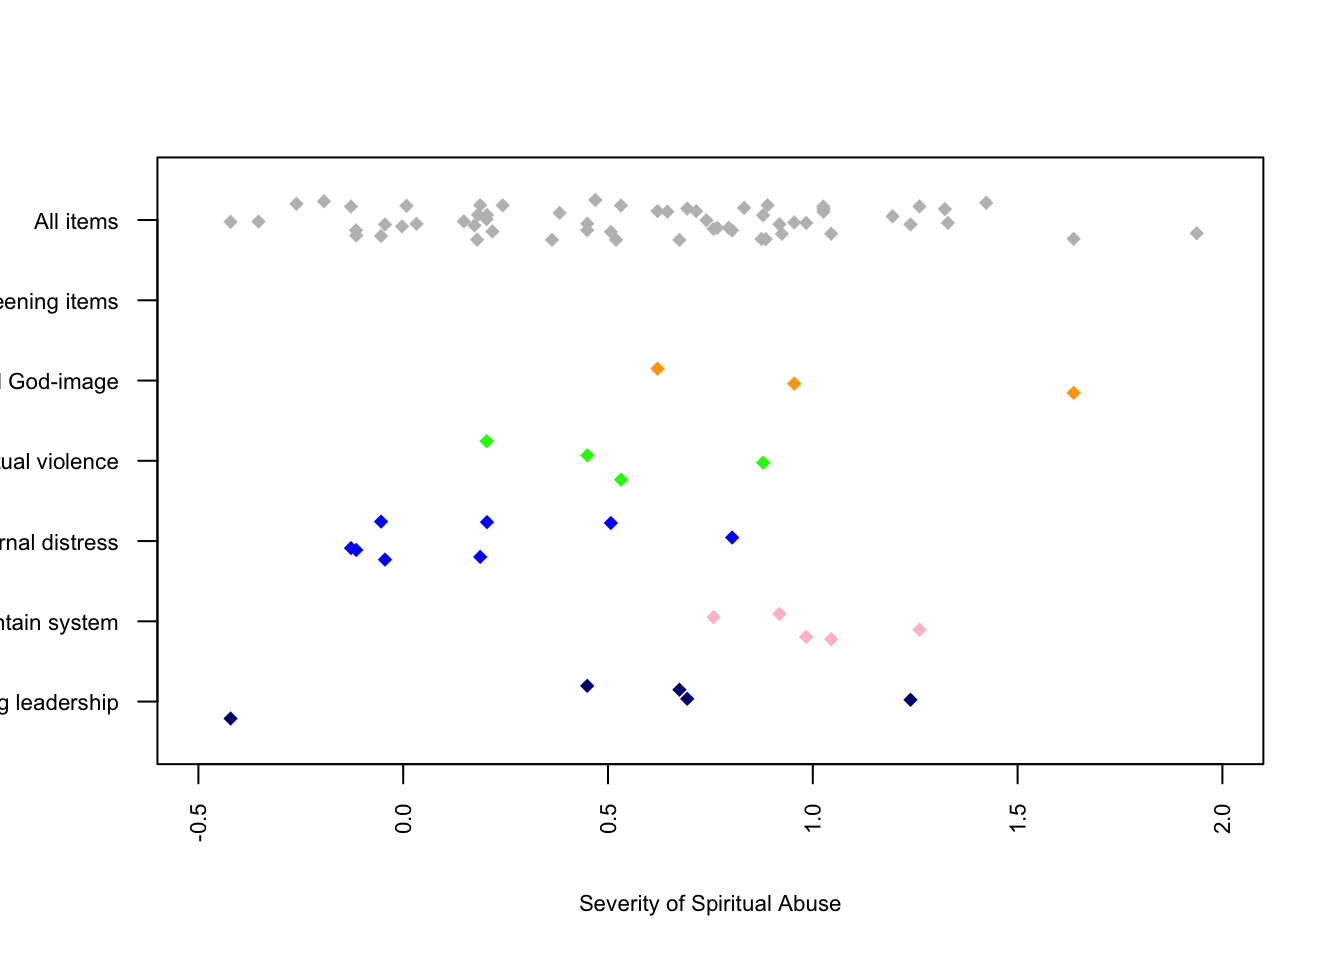
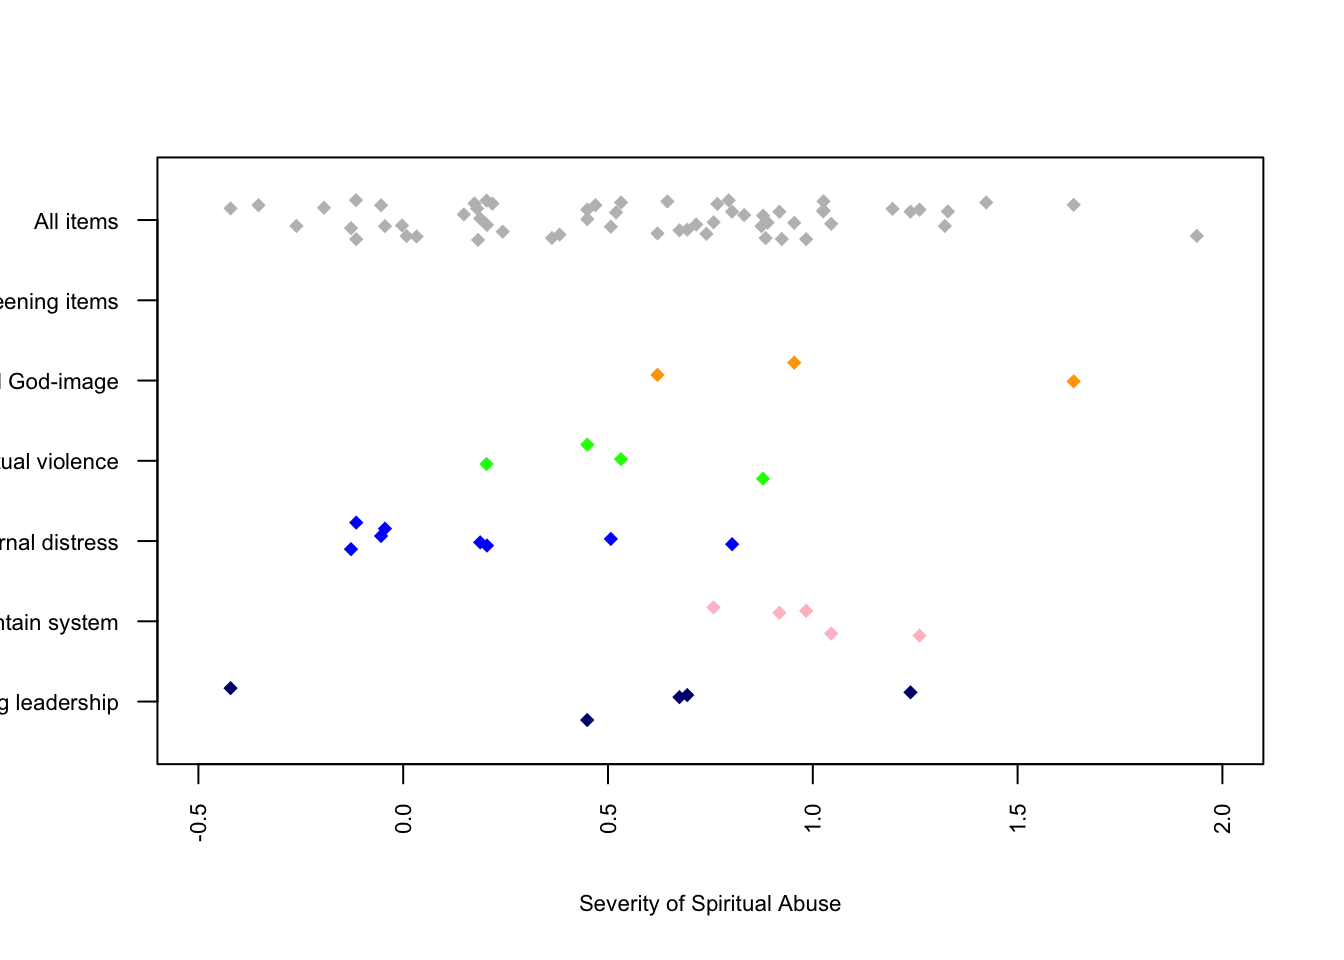
Built site for gh-pages

diff --git a/results.html b/results.html
@@ -1675,15 +1675,15 @@ Iteration in WLE/MLE estimation  7   | Maximal change  0
    <td style="text-align:center;"> controlling leadership </td>
    <td style="text-align:center;"> -0.42 </td>
    <td style="text-align:center;"> 0.02 </td>
-   <td style="text-align:center;"> 1.21 </td>
-   <td style="text-align:center;"> 1.26 </td>
+   <td style="text-align:center;"> 1.20 </td>
+   <td style="text-align:center;"> 1.25 </td>
   </tr>
   <tr>
    <td style="text-align:left;width: 11cm; "> EQ66 - Others treated as less than due to their sexual orientation </td>
    <td style="text-align:center;">  </td>
    <td style="text-align:center;"> -0.35 </td>
    <td style="text-align:center;"> 0.02 </td>
-   <td style="text-align:center;"> 1.09 </td>
+   <td style="text-align:center;"> 1.10 </td>
    <td style="text-align:center;"> 1.05 </td>
   </tr>
   <tr>
@@ -1691,7 +1691,7 @@ Iteration in WLE/MLE estimation  7   | Maximal change  0
    <td style="text-align:center;">  </td>
    <td style="text-align:center;"> -0.26 </td>
    <td style="text-align:center;"> 0.02 </td>
-   <td style="text-align:center;"> 0.77 </td>
+   <td style="text-align:center;"> 0.76 </td>
    <td style="text-align:center;"> 0.76 </td>
   </tr>
   <tr>
@@ -1699,7 +1699,7 @@ Iteration in WLE/MLE estimation  7   | Maximal change  0
    <td style="text-align:center;">  </td>
    <td style="text-align:center;"> -0.19 </td>
    <td style="text-align:center;"> 0.02 </td>
-   <td style="text-align:center;"> 1.04 </td>
+   <td style="text-align:center;"> 1.05 </td>
    <td style="text-align:center;"> 0.97 </td>
   </tr>
   <tr>
@@ -1723,7 +1723,7 @@ Iteration in WLE/MLE estimation  7   | Maximal change  0
    <td style="text-align:center;"> internal distress </td>
    <td style="text-align:center;"> -0.11 </td>
    <td style="text-align:center;"> 0.02 </td>
-   <td style="text-align:center;"> 0.94 </td>
+   <td style="text-align:center;"> 0.95 </td>
    <td style="text-align:center;"> 0.86 </td>
   </tr>
   <tr>
@@ -1731,7 +1731,7 @@ Iteration in WLE/MLE estimation  7   | Maximal change  0
    <td style="text-align:center;"> internal distress </td>
    <td style="text-align:center;"> -0.05 </td>
    <td style="text-align:center;"> 0.02 </td>
-   <td style="text-align:center;"> 1.35 </td>
+   <td style="text-align:center;"> 1.34 </td>
    <td style="text-align:center;"> 1.12 </td>
   </tr>
   <tr>
@@ -1748,7 +1748,7 @@ Iteration in WLE/MLE estimation  7   | Maximal change  0
    <td style="text-align:center;"> 0.00 </td>
    <td style="text-align:center;"> 0.02 </td>
    <td style="text-align:center;"> 0.75 </td>
-   <td style="text-align:center;"> 0.77 </td>
+   <td style="text-align:center;"> 0.78 </td>
   </tr>
   <tr>
    <td style="text-align:left;width: 11cm; "> EQ37 - Made to feel less spiritually mature than pastor/leadership </td>
@@ -1779,7 +1779,7 @@ Iteration in WLE/MLE estimation  7   | Maximal change  0
    <td style="text-align:center;">  </td>
    <td style="text-align:center;"> 0.17 </td>
    <td style="text-align:center;"> 0.02 </td>
-   <td style="text-align:center;"> 0.91 </td>
+   <td style="text-align:center;"> 0.90 </td>
    <td style="text-align:center;"> 0.88 </td>
   </tr>
   <tr>
@@ -1787,7 +1787,7 @@ Iteration in WLE/MLE estimation  7   | Maximal change  0
    <td style="text-align:center;">  </td>
    <td style="text-align:center;"> 0.18 </td>
    <td style="text-align:center;"> 0.02 </td>
-   <td style="text-align:center;"> 1.12 </td>
+   <td style="text-align:center;"> 1.11 </td>
    <td style="text-align:center;"> 1.14 </td>
   </tr>
   <tr>
@@ -1795,7 +1795,7 @@ Iteration in WLE/MLE estimation  7   | Maximal change  0
    <td style="text-align:center;">  </td>
    <td style="text-align:center;"> 0.18 </td>
    <td style="text-align:center;"> 0.02 </td>
-   <td style="text-align:center;"> 0.83 </td>
+   <td style="text-align:center;"> 0.82 </td>
    <td style="text-align:center;"> 0.82 </td>
   </tr>
   <tr>
@@ -1812,7 +1812,7 @@ Iteration in WLE/MLE estimation  7   | Maximal change  0
    <td style="text-align:center;"> 0.20 </td>
    <td style="text-align:center;"> 0.02 </td>
    <td style="text-align:center;"> 1.09 </td>
-   <td style="text-align:center;"> 1.10 </td>
+   <td style="text-align:center;"> 1.11 </td>
   </tr>
   <tr>
    <td style="text-align:left;width: 11cm; "> *IQ78 - A lack of self-worth </td>
@@ -1820,7 +1820,7 @@ Iteration in WLE/MLE estimation  7   | Maximal change  0
    <td style="text-align:center;"> 0.20 </td>
    <td style="text-align:center;"> 0.02 </td>
    <td style="text-align:center;"> 1.08 </td>
-   <td style="text-align:center;"> 1.03 </td>
+   <td style="text-align:center;"> 1.02 </td>
   </tr>
   <tr>
    <td style="text-align:left;width: 11cm; "> EQ18 - Church/pastor discourage critical thinking </td>
@@ -1835,7 +1835,7 @@ Iteration in WLE/MLE estimation  7   | Maximal change  0
    <td style="text-align:center;">  </td>
    <td style="text-align:center;"> 0.24 </td>
    <td style="text-align:center;"> 0.02 </td>
-   <td style="text-align:center;"> 0.68 </td>
+   <td style="text-align:center;"> 0.67 </td>
    <td style="text-align:center;"> 0.71 </td>
   </tr>
   <tr>
@@ -1843,7 +1843,7 @@ Iteration in WLE/MLE estimation  7   | Maximal change  0
    <td style="text-align:center;">  </td>
    <td style="text-align:center;"> 0.36 </td>
    <td style="text-align:center;"> 0.02 </td>
-   <td style="text-align:center;"> 0.75 </td>
+   <td style="text-align:center;"> 0.76 </td>
    <td style="text-align:center;"> 0.76 </td>
   </tr>
   <tr>
@@ -1851,7 +1851,7 @@ Iteration in WLE/MLE estimation  7   | Maximal change  0
    <td style="text-align:center;">  </td>
    <td style="text-align:center;"> 0.38 </td>
    <td style="text-align:center;"> 0.02 </td>
-   <td style="text-align:center;"> 0.75 </td>
+   <td style="text-align:center;"> 0.74 </td>
    <td style="text-align:center;"> 0.73 </td>
   </tr>
   <tr>
@@ -1859,15 +1859,15 @@ Iteration in WLE/MLE estimation  7   | Maximal change  0
    <td style="text-align:center;"> controlling leadership </td>
    <td style="text-align:center;"> 0.45 </td>
    <td style="text-align:center;"> 0.02 </td>
-   <td style="text-align:center;"> 1.39 </td>
-   <td style="text-align:center;"> 1.27 </td>
+   <td style="text-align:center;"> 1.37 </td>
+   <td style="text-align:center;"> 1.26 </td>
   </tr>
   <tr>
    <td style="text-align:left;width: 11cm; "> *EQ58 - Terror/horror used to motivate religious decisions </td>
    <td style="text-align:center;"> spiritual violence </td>
    <td style="text-align:center;"> 0.45 </td>
    <td style="text-align:center;"> 0.02 </td>
-   <td style="text-align:center;"> 0.92 </td>
+   <td style="text-align:center;"> 0.91 </td>
    <td style="text-align:center;"> 0.94 </td>
   </tr>
   <tr>
@@ -1883,7 +1883,7 @@ Iteration in WLE/MLE estimation  7   | Maximal change  0
    <td style="text-align:center;"> internal distress </td>
    <td style="text-align:center;"> 0.51 </td>
    <td style="text-align:center;"> 0.02 </td>
-   <td style="text-align:center;"> 1.19 </td>
+   <td style="text-align:center;"> 1.18 </td>
    <td style="text-align:center;"> 1.16 </td>
   </tr>
   <tr>
@@ -1907,7 +1907,7 @@ Iteration in WLE/MLE estimation  7   | Maximal change  0
    <td style="text-align:center;"> harmful God-image </td>
    <td style="text-align:center;"> 0.62 </td>
    <td style="text-align:center;"> 0.02 </td>
-   <td style="text-align:center;"> 1.36 </td>
+   <td style="text-align:center;"> 1.33 </td>
    <td style="text-align:center;"> 1.21 </td>
   </tr>
   <tr>
@@ -1923,7 +1923,7 @@ Iteration in WLE/MLE estimation  7   | Maximal change  0
    <td style="text-align:center;"> controlling leadership </td>
    <td style="text-align:center;"> 0.67 </td>
    <td style="text-align:center;"> 0.02 </td>
-   <td style="text-align:center;"> 1.40 </td>
+   <td style="text-align:center;"> 1.41 </td>
    <td style="text-align:center;"> 1.38 </td>
   </tr>
   <tr>
@@ -1931,7 +1931,7 @@ Iteration in WLE/MLE estimation  7   | Maximal change  0
    <td style="text-align:center;"> controlling leadership </td>
    <td style="text-align:center;"> 0.69 </td>
    <td style="text-align:center;"> 0.02 </td>
-   <td style="text-align:center;"> 0.86 </td>
+   <td style="text-align:center;"> 0.85 </td>
    <td style="text-align:center;"> 0.93 </td>
   </tr>
   <tr>
@@ -1939,7 +1939,7 @@ Iteration in WLE/MLE estimation  7   | Maximal change  0
    <td style="text-align:center;">  </td>
    <td style="text-align:center;"> 0.72 </td>
    <td style="text-align:center;"> 0.02 </td>
-   <td style="text-align:center;"> 0.75 </td>
+   <td style="text-align:center;"> 0.76 </td>
    <td style="text-align:center;"> 0.78 </td>
   </tr>
   <tr>
@@ -1964,14 +1964,14 @@ Iteration in WLE/MLE estimation  7   | Maximal change  0
    <td style="text-align:center;"> 0.77 </td>
    <td style="text-align:center;"> 0.02 </td>
    <td style="text-align:center;"> 1.00 </td>
-   <td style="text-align:center;"> 0.99 </td>
+   <td style="text-align:center;"> 1.00 </td>
   </tr>
   <tr>
    <td style="text-align:left;width: 11cm; "> EQ50 - Treated as less than because of my gender </td>
    <td style="text-align:center;"> gender discrimination </td>
    <td style="text-align:center;"> 0.79 </td>
    <td style="text-align:center;"> 0.02 </td>
-   <td style="text-align:center;"> 1.94 </td>
+   <td style="text-align:center;"> 1.96 </td>
    <td style="text-align:center;"> 1.92 </td>
   </tr>
   <tr>
@@ -1979,7 +1979,7 @@ Iteration in WLE/MLE estimation  7   | Maximal change  0
    <td style="text-align:center;"> internal distress </td>
    <td style="text-align:center;"> 0.80 </td>
    <td style="text-align:center;"> 0.02 </td>
-   <td style="text-align:center;"> 1.18 </td>
+   <td style="text-align:center;"> 1.17 </td>
    <td style="text-align:center;"> 1.16 </td>
   </tr>
   <tr>
@@ -1987,7 +1987,7 @@ Iteration in WLE/MLE estimation  7   | Maximal change  0
    <td style="text-align:center;">  </td>
    <td style="text-align:center;"> 0.83 </td>
    <td style="text-align:center;"> 0.02 </td>
-   <td style="text-align:center;"> 1.30 </td>
+   <td style="text-align:center;"> 1.31 </td>
    <td style="text-align:center;"> 1.39 </td>
   </tr>
   <tr>
@@ -2003,7 +2003,7 @@ Iteration in WLE/MLE estimation  7   | Maximal change  0
    <td style="text-align:center;"> spiritual violence </td>
    <td style="text-align:center;"> 0.88 </td>
    <td style="text-align:center;"> 0.02 </td>
-   <td style="text-align:center;"> 1.07 </td>
+   <td style="text-align:center;"> 1.08 </td>
    <td style="text-align:center;"> 1.11 </td>
   </tr>
   <tr>
@@ -2011,7 +2011,7 @@ Iteration in WLE/MLE estimation  7   | Maximal change  0
    <td style="text-align:center;">  </td>
    <td style="text-align:center;"> 0.88 </td>
    <td style="text-align:center;"> 0.02 </td>
-   <td style="text-align:center;"> 1.13 </td>
+   <td style="text-align:center;"> 1.14 </td>
    <td style="text-align:center;"> 1.27 </td>
   </tr>
   <tr>
@@ -2019,7 +2019,7 @@ Iteration in WLE/MLE estimation  7   | Maximal change  0
    <td style="text-align:center;">  </td>
    <td style="text-align:center;"> 0.89 </td>
    <td style="text-align:center;"> 0.02 </td>
-   <td style="text-align:center;"> 0.95 </td>
+   <td style="text-align:center;"> 0.94 </td>
    <td style="text-align:center;"> 1.08 </td>
   </tr>
   <tr>
@@ -2027,7 +2027,7 @@ Iteration in WLE/MLE estimation  7   | Maximal change  0
    <td style="text-align:center;"> maintain system </td>
    <td style="text-align:center;"> 0.92 </td>
    <td style="text-align:center;"> 0.02 </td>
-   <td style="text-align:center;"> 1.01 </td>
+   <td style="text-align:center;"> 1.02 </td>
    <td style="text-align:center;"> 1.05 </td>
   </tr>
   <tr>
@@ -2043,7 +2043,7 @@ Iteration in WLE/MLE estimation  7   | Maximal change  0
    <td style="text-align:center;"> harmful God-image </td>
    <td style="text-align:center;"> 0.95 </td>
    <td style="text-align:center;"> 0.02 </td>
-   <td style="text-align:center;"> 1.39 </td>
+   <td style="text-align:center;"> 1.40 </td>
    <td style="text-align:center;"> 1.27 </td>
   </tr>
   <tr>
@@ -2052,22 +2052,22 @@ Iteration in WLE/MLE estimation  7   | Maximal change  0
    <td style="text-align:center;"> 0.98 </td>
    <td style="text-align:center;"> 0.02 </td>
    <td style="text-align:center;"> 0.79 </td>
-   <td style="text-align:center;"> 0.89 </td>
+   <td style="text-align:center;"> 0.88 </td>
   </tr>
   <tr>
    <td style="text-align:left;width: 11cm; "> IQ68 - Anxiety attacks triggered by religious stimuli </td>
    <td style="text-align:center;">  </td>
    <td style="text-align:center;"> 1.03 </td>
    <td style="text-align:center;"> 0.02 </td>
-   <td style="text-align:center;"> 0.99 </td>
-   <td style="text-align:center;"> 1.07 </td>
+   <td style="text-align:center;"> 0.98 </td>
+   <td style="text-align:center;"> 1.06 </td>
   </tr>
   <tr>
    <td style="text-align:left;width: 11cm; "> EQ30 - Deterred from seeking mental health treatment/counseling/medication </td>
    <td style="text-align:center;">  </td>
    <td style="text-align:center;"> 1.03 </td>
    <td style="text-align:center;"> 0.02 </td>
-   <td style="text-align:center;"> 0.96 </td>
+   <td style="text-align:center;"> 0.95 </td>
    <td style="text-align:center;"> 1.03 </td>
   </tr>
   <tr>
@@ -2084,14 +2084,14 @@ Iteration in WLE/MLE estimation  7   | Maximal change  0
    <td style="text-align:center;"> 1.04 </td>
    <td style="text-align:center;"> 0.02 </td>
    <td style="text-align:center;"> 1.13 </td>
-   <td style="text-align:center;"> 1.08 </td>
+   <td style="text-align:center;"> 1.09 </td>
   </tr>
   <tr>
    <td style="text-align:left;width: 11cm; "> EQ23 - Prayer replacing needed medical interventions </td>
    <td style="text-align:center;">  </td>
    <td style="text-align:center;"> 1.19 </td>
    <td style="text-align:center;"> 0.02 </td>
-   <td style="text-align:center;"> 1.08 </td>
+   <td style="text-align:center;"> 1.06 </td>
    <td style="text-align:center;"> 1.09 </td>
   </tr>
   <tr>
@@ -2108,7 +2108,7 @@ Iteration in WLE/MLE estimation  7   | Maximal change  0
    <td style="text-align:center;"> 1.26 </td>
    <td style="text-align:center;"> 0.02 </td>
    <td style="text-align:center;"> 1.34 </td>
-   <td style="text-align:center;"> 1.29 </td>
+   <td style="text-align:center;"> 1.30 </td>
   </tr>
   <tr>
    <td style="text-align:left;width: 11cm; "> EQ10 - Asked to give up personal goals by pastor </td>
@@ -2123,7 +2123,7 @@ Iteration in WLE/MLE estimation  7   | Maximal change  0
    <td style="text-align:center;">  </td>
    <td style="text-align:center;"> 1.33 </td>
    <td style="text-align:center;"> 0.02 </td>
-   <td style="text-align:center;"> 1.31 </td>
+   <td style="text-align:center;"> 1.28 </td>
    <td style="text-align:center;"> 1.26 </td>
   </tr>
   <tr>
@@ -2132,7 +2132,7 @@ Iteration in WLE/MLE estimation  7   | Maximal change  0
    <td style="text-align:center;"> 1.42 </td>
    <td style="text-align:center;"> 0.02 </td>
    <td style="text-align:center;"> 0.89 </td>
-   <td style="text-align:center;"> 0.97 </td>
+   <td style="text-align:center;"> 0.96 </td>
   </tr>
   <tr>
    <td style="text-align:left;width: 11cm; "> *IQ72 - Feeling as if God harmed me directly </td>

diff --git a/index.html b/index.html
@@ -190,8 +190,6 @@ div.csl-indent {
 <section id="abstract" class="level1 unnumbered">
 <h1 class="unnumbered">Abstract</h1>
 <p>Spiritual harm and abuse has begun to gain the attention of the clinical and psychological research community. Research to date has tried to define spiritual harm and abuse and document damage to its victims. The Spiritual Harm and Abuse Scale (SHAS) <span class="citation" data-cites="KochEdstrom2022">(<a href="references.html#ref-KochEdstrom2022" role="doc-biblioref">Koch and Edstrom 2022</a>)</span> has been developed to measure spiritual harm and abuse. This study aims to further validate the SHAS by using the Rating Scale Model.</p>
-<pre class="{r]}"><code>knitr::write_bib(c(
-  .packages(),'bookdown','eRm','lavaan','ltm','knitr','lordif','mirt','psych','rmarkdown','sirt','TAM','VIM'), 'packages.bib')</code></pre>
 
 
 <div id="refs" class="references csl-bib-body hanging-indent" role="doc-bibliography" style="display: none">
